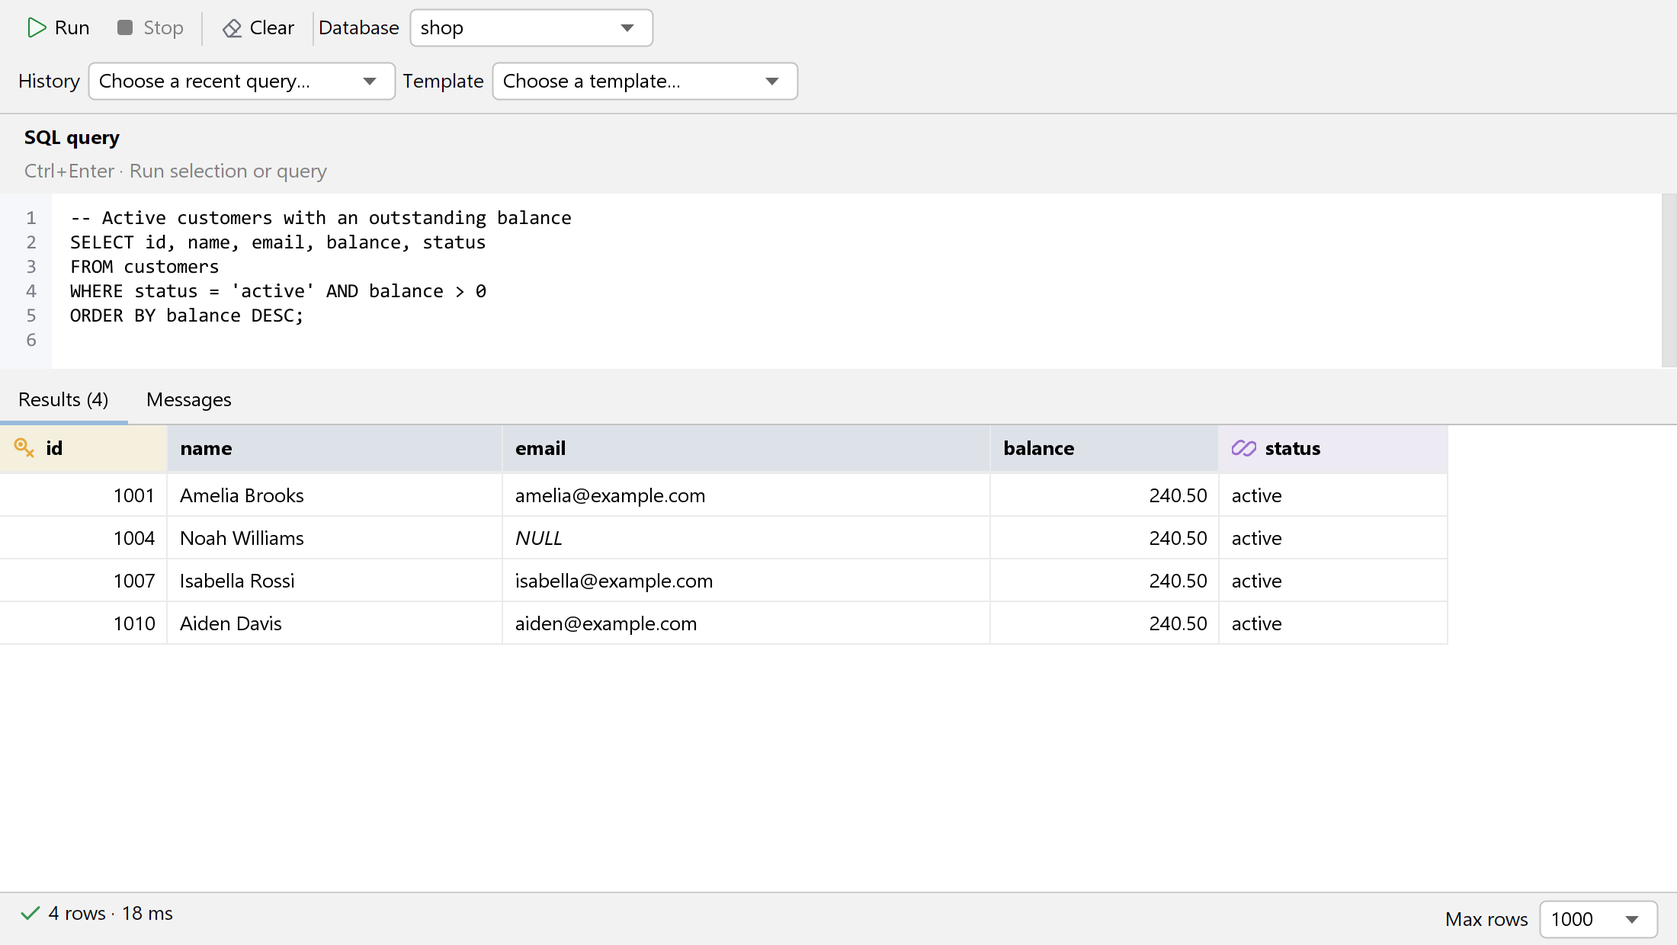
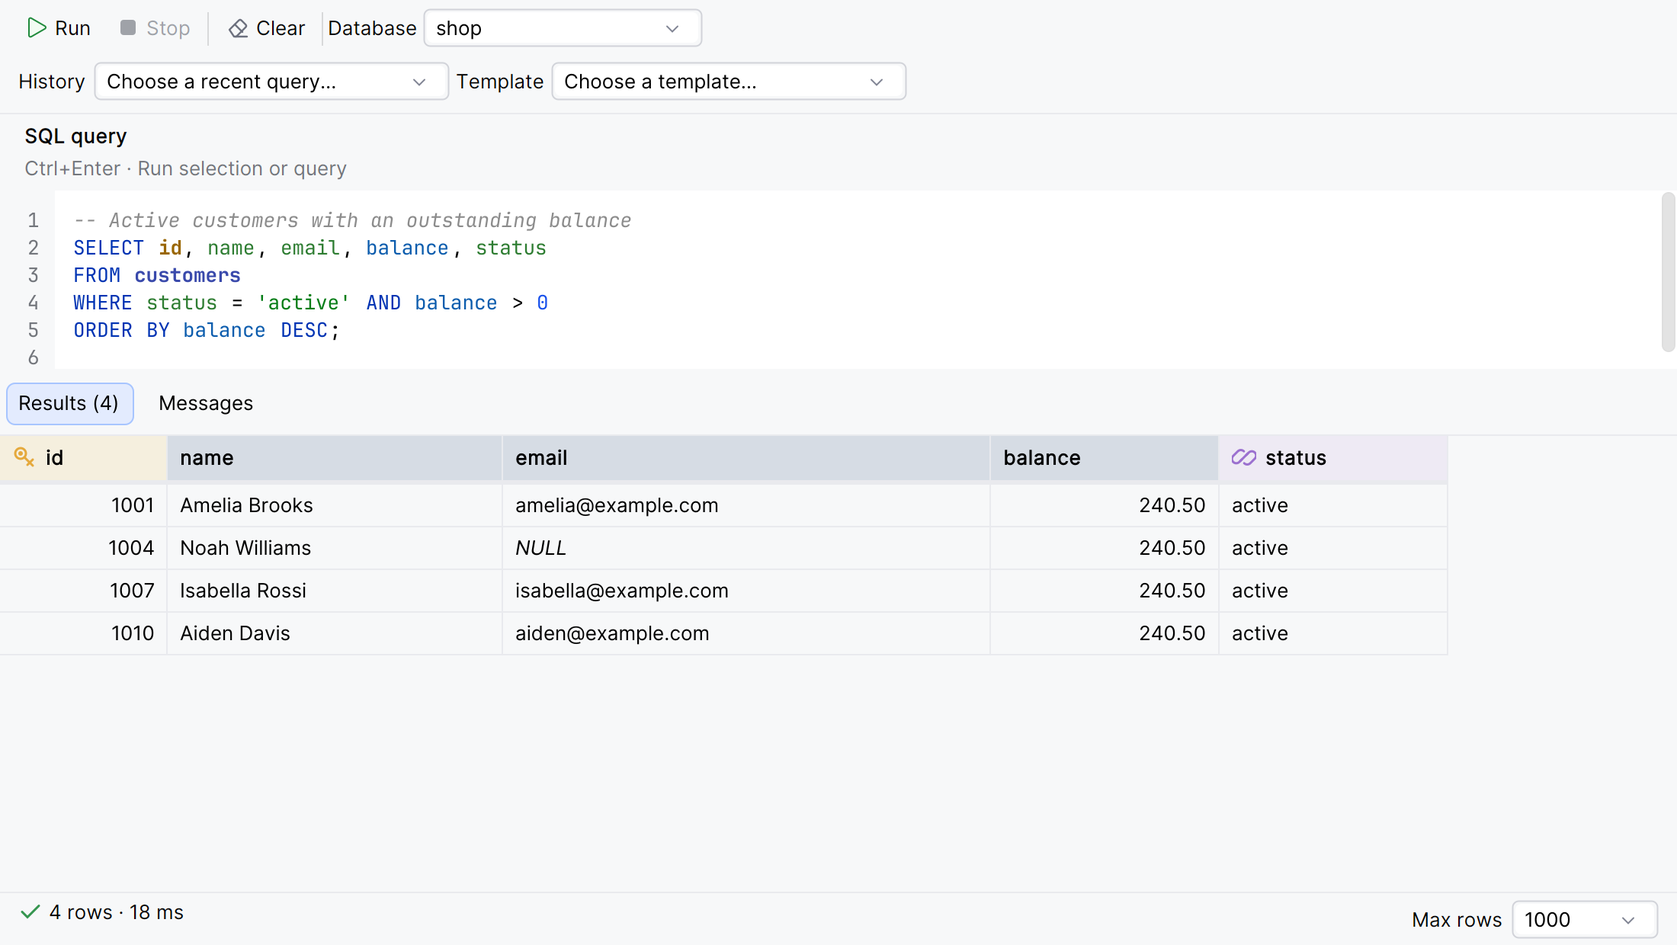
Render tracked screenshots on IntelliJ 2026.2.3 in Islands Light
Let ui-preview.py run on a newer IDE: derive the JDK it needs from the
IDE's runtime, reuse the test framework Gradle cached for that build, and
use the core class loader for the plugin on the class path. UiPreview
installs the real Islands theme, editor scheme and UI font where the IDE
has them, and FlatLaf still approximates themes elsewhere.

Show schema colors in the console screenshot and keep bold labels whole
at higher pixel densities. Refresh the seven README screenshots, and
document the baseline for tracked images.

Fix UiPreview's use of the removed SqlParameterPanel. A stale class in a
reused output directory hid it, so class directories now start empty.

diff --git a/scripts/ui-preview/UiPreview.java b/scripts/ui-preview/UiPreview.java
@@ -111,11 +111,26 @@ public final class UiPreview {
         Graphics2D graphics = image.createGraphics();
         graphics.scale(scale, scale);
         graphics.setRenderingHint(RenderingHints.KEY_TEXT_ANTIALIASING, RenderingHints.VALUE_TEXT_ANTIALIAS_ON);
+        // Layout measures text at 100%; without this, scaled glyphs outgrow their labels and lose their last letter.
+        graphics.setRenderingHint(RenderingHints.KEY_FRACTIONALMETRICS, RenderingHints.VALUE_FRACTIONALMETRICS_ON);
+        widenLabels(component, new java.awt.font.FontRenderContext(java.awt.geom.AffineTransform.getScaleInstance(scale, scale), true, true));
         component.printAll(graphics);
         graphics.dispose();
         ImageIO.write(image, "png", output.resolve(name + ".png").toFile());
         snapshots.add(name + ".png");
         System.out.println(name + ": " + image.getWidth() + " x " + image.getHeight());
+    }
+    /** Hinted text measured at 100% can be narrower than the same text painted at a higher density, above all in bold. */
+    private static void widenLabels(Component component, java.awt.font.FontRenderContext context) {
+        if (component instanceof JLabel label && label.getText() != null && !label.getText().isEmpty() && !label.getText().startsWith("<html") && label.getFont() != null) {
+            int text = (int) Math.ceil(label.getFont().getStringBounds(label.getText(), context).getWidth());
+            Icon icon = label.getIcon();
+            Insets insets = label.getInsets();
+            int needed = text + insets.left + insets.right + (icon == null ? 0 : icon.getIconWidth() + label.getIconTextGap());
+            if (needed > label.getWidth() && needed - label.getWidth() <= 12) label.setSize(needed, label.getHeight());
+        }
+        if (component instanceof Container container)
+            for (Component child : container.getComponents()) widenLabels(child, context);
     }
     private static void desktopTextHints(Component component) {
         if (component instanceof JComponent swing) {
@@ -462,11 +477,11 @@ public final class UiPreview {
     }
     static void renderSqlParameters(String theme) throws Exception {
         String sql = "select * from orders where customer_id = :customer and placed_at >= :since";
-        var panel = new com.segfault03.ideadb.sql.run.SqlParameterPanel(sql,
+        var panel = new com.segfault03.ideadb.sql.run.SqlParameterForm(sql,
                 com.segfault03.ideadb.sql.run.SqlParameters.of(sql, com.segfault03.ideadb.sql.dialect.SqlDialects.MYSQL, false),
-                DatabaseType.MYSQL, Map.of(
+                DatabaseType.MYSQL, null, Map.of(
                         ":customer", new com.segfault03.ideadb.sql.run.SqlParameterValue(com.segfault03.ideadb.sql.run.SqlParameterValue.Type.NUMBER, "42"),
-                        ":since", new com.segfault03.ideadb.sql.run.SqlParameterValue(com.segfault03.ideadb.sql.run.SqlParameterValue.Type.DATE, "2026-01-01")));
+                        ":since", new com.segfault03.ideadb.sql.run.SqlParameterValue(com.segfault03.ideadb.sql.run.SqlParameterValue.Type.TEXT, "'2026-01-01'")), "Run");
         panel.setBorder(javax.swing.BorderFactory.createEmptyBorder(12, 12, 12, 12));
         render(panel, theme + "-sql-parameters-640", 640, 300);
     }
@@ -1150,13 +1165,45 @@ public final class UiPreview {
         render(menuPreview, name, width, height);
     }
 
+    /**
+     * In a project the console's input is an IDE editor with schema colors. Without one it falls back to a plain text area,
+     * so the featured image shows the text in a pane colored by the same production code, over the fixture's schema.
+     */
+    static SqlQueryConsolePanel withSchemaColors(SqlQueryConsolePanel panel) throws Exception {
+        JTextArea area = (JTextArea) field(panel, "editorArea");
+        JTextPane pane = new JTextPane();
+        pane.setFont(area.getFont());
+        pane.setBackground(area.getBackground());
+        pane.setBorder(BorderFactory.createEmptyBorder());
+        pane.setText(area.getText());
+        List<ColumnMetadata> columns = List.of(
+                new ColumnMetadata("id", "BIGINT", java.sql.Types.BIGINT, 19, 0, false, true, true, null),
+                new ColumnMetadata("name", "VARCHAR", java.sql.Types.VARCHAR, 120, 0, false, false, false, null),
+                new ColumnMetadata("email", "VARCHAR", java.sql.Types.VARCHAR, 180, 0, true, false, false, null),
+                new ColumnMetadata("balance", "DECIMAL", java.sql.Types.DECIMAL, 10, 2, false, false, false, null),
+                new ColumnMetadata("status", "VARCHAR", java.sql.Types.VARCHAR, 20, 0, false, false, false, null));
+        var table = new TableMetadata(null, "shop", "customers", "TABLE");
+        table.setColumns(columns);
+        var snapshot = new com.segfault03.ideadb.service.ExplorerMetadataSnapshot(List.of(new com.segfault03.ideadb.service.ExplorerMetadataSnapshot.Namespace("shop",
+                List.of(new com.segfault03.ideadb.service.ExplorerMetadataSnapshot.Table(table, columns, true)), true)), List.of(), 3);
+        var schema = com.segfault03.ideadb.sql.schema.SqlSchema.of(config(DatabaseType.MYSQL), snapshot, "shop", 1);
+        var apply = com.segfault03.ideadb.sql.view.SqlSwingHighlighter.class.getDeclaredMethod("apply", JTextPane.class,
+                com.segfault03.ideadb.sql.dialect.SqlDialectProfile.class, com.segfault03.ideadb.sql.schema.SqlSchema.class);
+        apply.setAccessible(true);
+        apply.invoke(null, pane, com.segfault03.ideadb.sql.dialect.SqlDialects.MYSQL, schema);
+        // Over the text area rather than in its place: the line numbers read that area.
+        area.setLayout(new BorderLayout());
+        area.add(pane, BorderLayout.CENTER);
+        return panel;
+    }
+
     static void renderFeatured(String theme) throws Exception {
         render(welcome(false), theme + "-welcome-900", 900, 680);
         render(valueWorkspacePreview(), theme + "-cell-details-1440", 1440, 900);
         AlterTableDialog alter = alterTableDialog();
         render(alter.previewPanel(), theme + "-schema-alter-table-800", 800, alter.previewPanel().getPreferredSize().height);
         connection(theme, "mysql", 740);
-        render(console(), theme + "-sql-console-1100", 1100, 620);
+        render(withSchemaColors(console()), theme + "-sql-console-1100", 1100, 620);
         TableDataEditorPanel editor = table(false);
         render(editor, theme + "-table-1100", 1100, 620);
         Object model = field(editor, "tableModel");
@@ -1245,6 +1292,35 @@ public final class UiPreview {
         if (filled < 10) throw new AssertionError("Missing solid bottom-left source badge: " + type);
     }
 
+    /**
+     * The IDE's own Islands theme, UI font and editor scheme where it has them, installed the way the IDE does it: the test
+     * application's LafManager has no themes. An older IDE answers false, and FlatLaf approximates its themes instead.
+     */
+    private static boolean installIslandsTheme(boolean dark) throws Exception {
+        String id = dark ? "Islands Dark" : "Islands Light";
+        var theme = com.intellij.ide.ui.laf.UiThemeProviderListManager.Companion.getInstance().findThemeById(id);
+        if (theme == null) return false;
+        UIManager.setLookAndFeel(dark ? new com.intellij.ide.ui.laf.darcula.DarculaLaf() : new com.intellij.ide.ui.laf.IntelliJLaf());
+        UIDefaults defaults = UIManager.getLookAndFeelDefaults();
+        theme.installTheme(defaults);
+        Font inter = new Font("Inter", Font.PLAIN, 13);
+        for (Object key : new ArrayList<>(defaults.keySet())) {
+            if (key instanceof String name && name.endsWith(".font") && defaults.get(key) instanceof Font font) {
+                defaults.put(key, new javax.swing.plaf.FontUIResource(inter.deriveFont(font.getStyle())));
+            }
+        }
+        var colors = com.intellij.openapi.editor.colors.EditorColorsManager.getInstance();
+        var scheme = new com.intellij.openapi.editor.colors.impl.EditorColorsSchemeImpl(colors.getGlobalScheme());
+        String schemeFile = dark ? "themes/islands/IslandSchemeDark.xml" : "themes/expUI/expUI_lightScheme.xml";
+        try (var input = com.intellij.ide.ui.laf.UiThemeProviderListManager.class.getClassLoader().getResourceAsStream(schemeFile)) {
+            if (input == null) throw new AssertionError(id + " has no editor scheme at " + schemeFile);
+            scheme.readExternal(com.intellij.openapi.util.JDOMUtil.load(input));
+        }
+        colors.setGlobalScheme(scheme);
+        System.out.println("Rendering in " + theme.getName() + " on " + com.intellij.openapi.application.ApplicationInfo.getInstance().getBuild().asString());
+        return true;
+    }
+
     private static void initializePreviewApplication() throws Exception {
         com.intellij.testFramework.common.TestApplicationKt.loadApp();
         com.intellij.openapi.extensions.PluginDescriptor descriptor = (com.intellij.openapi.extensions.PluginDescriptor)
@@ -1291,13 +1367,15 @@ public final class UiPreview {
             boolean tabIconsOnly = args.length >= 3 && args[2].equals("tab-icons");
             boolean cellDetailsOnly = args.length >= 3 && args[2].equals("cell-details");
             featuredOnly = !sourceFilterOnly && !searchOnly && !tabIconsOnly && !cellDetailsOnly && (args.length < 3 || !args[2].equals("all"));
-            UIManager.setLookAndFeel(theme.equals("dark") ? new FlatDarculaLaf() : new FlatIntelliJLaf());
-            Font font = new javax.swing.plaf.FontUIResource(previewFont());
-            UIManager.put("defaultFont", font);
-            for (String key : List.of("Label.font", "Button.font", "ToggleButton.font", "CheckBox.font",
-                    "RadioButton.font", "ComboBox.font", "TextField.font", "PasswordField.font", "TextArea.font",
-                    "Table.font", "TableHeader.font", "Menu.font", "MenuItem.font", "TabbedPane.font",
-                    "TitledBorder.font")) UIManager.put(key, font);
+            if (!installIslandsTheme(theme.equals("dark"))) {
+                UIManager.setLookAndFeel(theme.equals("dark") ? new FlatDarculaLaf() : new FlatIntelliJLaf());
+                Font font = new javax.swing.plaf.FontUIResource(previewFont());
+                UIManager.put("defaultFont", font);
+                for (String key : List.of("Label.font", "Button.font", "ToggleButton.font", "CheckBox.font",
+                        "RadioButton.font", "ComboBox.font", "TextField.font", "PasswordField.font", "TextArea.font",
+                        "Table.font", "TableHeader.font", "Menu.font", "MenuItem.font", "TabbedPane.font",
+                        "TitledBorder.font")) UIManager.put(key, font);
+            }
             JBColor.setDark(theme.equals("dark"));
             com.intellij.ui.IconManager.Companion.activate(new com.intellij.ui.icons.CoreIconManager());
             IconLoader.activate();

diff --git a/scripts/ui-preview.py b/scripts/ui-preview.py
@@ -9,7 +9,9 @@ Refreshes the seven featured screenshots/ PNGs and a local gallery under ignored
 import argparse
 import hashlib
 import html
+import json
 import os
+import re
 import shutil
 import zipfile
 from pathlib import Path
@@ -66,6 +68,23 @@ def cached_test_runtime_jars(gradle_cache):
     return result
 
 
+def ide_java_major(sdk):
+    # A newer IDE's classes need a compiler at least as new as its runtime; the plugin itself still targets Java 21.
+    release = sdk / 'jbr/release'
+    version = re.search(r'JAVA_VERSION="(\d+)', release.read_text(encoding='utf-8')) if release.is_file() else None
+    return max(21, int(version.group(1))) if version else 21
+
+
+def cached_platform_test_jars(sdk, gradle_cache):
+    # Newer IDE distributions leave out the platform test framework; Gradle caches the matching build's when it resolves that IDE.
+    if (sdk / 'lib/testFramework.jar').is_file():
+        return []
+    build = json.loads((sdk / 'product-info.json').read_text(encoding='utf-8'))['buildNumber']
+    cache = gradle_cache / 'caches/modules-2/files-2.1/com.jetbrains.intellij.platform'
+    return sorted(jar for module in cache.glob('test-framework*') for jar in (module / build).glob('*/*.jar')
+                  if not jar.name.endswith('-sources.jar'))
+
+
 def run():
     parser = argparse.ArgumentParser(description=__doc__)
     parser.add_argument('--ide-home', type=Path, help='IntelliJ SDK installation directory')
@@ -95,16 +114,17 @@ def run():
 
 
 def render(args, deps, parser):
-    java = executable(deps.java(args.java_home), 'java').resolve()
-    javac = java.with_name('javac.exe' if os.name == 'nt' else 'javac')
-    if not javac.is_file():
-        parser.error('Select a full JDK 21 with --java-home or JAVA_HOME; javac was not found.')
     sdk = deps.ide(args.ide_home) if args.ide_home or args.binaries_dir else None
     gradle_cache = Path(args.gradle_user_home or os.environ.get('GRADLE_USER_HOME', Path.home() / '.gradle')).expanduser().resolve()
     if sdk is None:
         sdk = cached_sdk(gradle_cache)
         if sdk is None:
             sdk = deps.ide()
+    major = ide_java_major(sdk)
+    java = executable(deps.java(args.java_home, major=major), 'java').resolve()
+    javac = java.with_name('javac.exe' if os.name == 'nt' else 'javac')
+    if not javac.is_file():
+        parser.error(f'Select a full JDK {major} with --java-home or JAVA_HOME; javac was not found.')
     test_jars = cached_test_runtime_jars(gradle_cache)
     if test_jars is None:
         test_jars = []
@@ -112,8 +132,12 @@ def render(args, deps, parser):
[2 lines of base64/hex data omitted]
     jars = sorted((sdk / 'lib').glob('*.jar')) + sorted((sdk / 'lib/modules').glob('*.jar'))
-    if not (sdk / 'lib/app-client.jar').is_file():
-        parser.error('--ide-home must point to an IntelliJ SDK with lib/app-client.jar')
+    if not (sdk / 'lib/app-client.jar').is_file() and not (sdk / 'product-info.json').is_file():
+        parser.error('--ide-home must point to an IntelliJ SDK with lib/app-client.jar or product-info.json')
+    platform_test_jars = cached_platform_test_jars(sdk, gradle_cache)
+    if not (sdk / 'lib/testFramework.jar').is_file() and not platform_test_jars:
+        parser.error('This IDE does not bundle the platform test framework; run the What\'s New render once so Gradle caches it. See docs/UI_PREVIEW.md.')
+    test_jars = list(test_jars) + platform_test_jars
     output = args.output.resolve()
     screenshots = ROOT / 'screenshots'
     if output == screenshots or screenshots in output.parents:
@@ -127,8 +151,10 @@ def render(args, deps, parser):
     output.mkdir(parents=True, exist_ok=True)
     production = output / 'production-classes'
     preview = output / 'preview-classes'
-    production.mkdir(exist_ok=True)
-    preview.mkdir(exist_ok=True)
+    # Start empty: classes left by an earlier run would hide a reference to one that no longer exists.
+    for classes in (production, preview):
+        shutil.rmtree(classes, ignore_errors=True)
+        classes.mkdir()
     drivers = {kind: deps.jdbc(kind) for kind in ('mysql', 'hsqldb')}
     # Kotlin settings classes come from Gradle; the Java/Kotlin PSI injectors need language plugins
     # that the headless platform lacks and are not used by any rendered screen.
@@ -173,6 +199,8 @@ def render(args, deps, parser):
                          '--add-opens=java.desktop/sun.java2d=ALL-UNNAMED',
                          '--add-opens=java.desktop/sun.swing=ALL-UNNAMED',
                          '-Djava.awt.headless=true', '-Didea.is.unit.test=true', '-Didea.platform.prefix=Idea',
+                         # A newer IDE only gives a plugin on the class path a loader of its own if it has a jar.
+                         '-Didea.force.use.core.classloader=true',
                          f'-Didea.home.path={sdk}', f'-Didea.config.path={config_path}',
                          f'-Didea.system.path={system_path}', '-cp', runtime, 'UiPreview',
                          str(output), theme, mode], output / f'{theme}.args')

diff --git a/docs/UI_PREVIEW.md b/docs/UI_PREVIEW.md
@@ -4,8 +4,8 @@
 
 Open **Tools → What's New in Lattice**, search for that action with
 **Ctrl+Shift+A**, or use the link on Lattice's welcome screen. The native editor
-tab contains three short feature guides, bundled screenshots that can be enlarged,
-and an expandable list of changes from the packaged changelog. It works offline.
+tab contains short feature guides, bundled images that can be enlarged, and an
+expandable list of changes from the packaged changelog. It works offline.
 
 After opening a project, an informational **Lattice updates** notification offers
 **View what's new**. Each version is announced once per IDE installation across
@@ -18,6 +18,33 @@ For a local installation, build the plugin ZIP, use **Settings → Plugins → g
 Install Plugin from Disk**, select the ZIP, restart if requested, and invoke the
 action above. The native page follows the current IDE theme; screenshots retain
 the theme of their captured sample UI. This feature does not require JCEF.
+
+### Baseline for tracked images
+
+Render every tracked image, the seven README screenshots and the What's New guide
+images, headlessly on IntelliJ IDEA 2026.2.3 in the Islands Light theme, with the
+default Periwinkle schema colors. Neither render opens a window or uses the desktop.
+The IDE version here is separate from the plugin's compile baseline, IntelliJ 2025.1.
+
+### What's New guide images
+
+The guide images under `src/main/resources/release-notes/images/` are rendered
+by `WhatsNewRendersJavaFixtureTest`. It paints the real editor, schema, highlighting,
+cards and panels. Popups cannot open without a display, so they are composed around
+the editor from what the features return. The scenes simulate the Database plugin
+being disabled, because cards and dry runs need that.
+
+Supply an extracted IDEA 2026.2.3 directory, and use JDK 21 to run Gradle. In PowerShell:
+
+```powershell
+$env:LATTICE_WHATS_NEW_OUTPUT = "$PWD\src\main\resources\release-notes\images"
+.\gradlew.bat javaPlatformTest --tests "*WhatsNewRendersJavaFixtureTest" --rerun -I scripts/gradle/whats-new-renders.init.gradle "-Plattice.ide.home=C:/path/to/idea-2026.2.3"
+Remove-Item Env:LATTICE_WHATS_NEW_OUTPUT
+```
+
+On Linux or macOS, set the same variable and use `./gradlew`. Review the images
+before committing them. Without the variable, ordinary `javaPlatformTest` runs
+render the scenes on the compile baseline to keep them working, and write nothing.
 
 ## Welcome screen
 
@@ -132,6 +159,16 @@ Run the preview helper from the repository root on Windows, Linux or macOS:
 ```sh
 python scripts/ui-preview.py
 ```
+
+That renders on the IntelliJ 2025.1 compile baseline, where FlatLaf approximates the IDE themes. It is enough for checking a layout. To refresh the images you commit, use the [baseline](#baseline-for-tracked-images):
+
+```sh
+python scripts/ui-preview.py --ide-home /path/to/idea-2026.2.3 --java-home /path/to/jdk-25
+```
+
+On an IDE that has the Islands themes the helper installs the real theme, its editor scheme and the Inter UI font. The JDK must be at least as new as the IDE's own runtime, which is Java 25 for 2026.2.3; the plugin code still targets Java 21. Run the [What's New render](#whats-new-guide-images) first, because the helper reuses the platform test framework that Gradle caches for that IDE. If the helper's Gradle step runs out of memory in the Kotlin daemon, run `./gradlew compileKotlin -Pkotlin.daemon.jvmargs=-Xmx4g` once and try again.
+
+Without a project the SQL console falls back to a plain text area, so the featured image shows its text in a pane colored by `SqlSwingHighlighter` over a sample schema.
 
 It paints the plugin's production Swing screens with fixture data and a headless IntelliJ test application for platform services such as the Action System. It does not open an IDE window or recreate the screens in separate UI code. The default run uses a light look and feel and refreshes these seven tracked README images:
 

diff --git a/docs/SCRIPTS.md b/docs/SCRIPTS.md
@@ -114,7 +114,7 @@ For quick component layout feedback and the seven README images, run:
 python scripts/ui-preview.py
 ```
 
-This renders production Swing components with fixture data and a headless IntelliJ test application that supplies platform services such as the native Action System. It opens no IDE window. It discovers local JDK 21, IntelliJ 2025.1 and JUnit/Hamcrest jars, downloading missing inputs plus checksum-verified FlatLaf under `--download-dir`. Supply `--flatlaf-jar`, `--junit-jar` and `--hamcrest-jar` to override individual jars. `--all-previews` adds light/dark gallery variants; `--output` selects another gallery directory; `--compare-with` adds a before/after view. The default run refreshes only the seven tracked PNGs under `screenshots/`. See [UI preview instructions](UI_PREVIEW.md).
+This renders production Swing components with fixture data and a headless IntelliJ test application that supplies platform services such as the native Action System. It opens no IDE window. It discovers local JDK 21, IntelliJ 2025.1 and JUnit/Hamcrest jars, downloading missing inputs plus checksum-verified FlatLaf under `--download-dir`. Supply `--flatlaf-jar`, `--junit-jar` and `--hamcrest-jar` to override individual jars. `--all-previews` adds light/dark gallery variants; `--output` selects another gallery directory; `--compare-with` adds a before/after view. The default run refreshes only the seven tracked PNGs under `screenshots/`; commit images rendered on the [UI baseline](UI_PREVIEW.md#baseline-for-tracked-images). See [UI preview instructions](UI_PREVIEW.md).
 
 Main PR CI uses `python scripts/ui-preview.py --checks-only` for production editor recovery assertions without rendering screenshots or updating the gallery.
 

diff --git a/docs/WINDOWS_SCRIPTS.md b/docs/WINDOWS_SCRIPTS.md
@@ -234,7 +234,7 @@ Render the production Swing UI without opening an IDE; refresh the seven tracked
 .\scripts\windows\ui-preview.ps1 --all-previews @deps
 ```
 
-`--all-previews` renders a light/dark gallery. `--output` defaults to build/ui-preview/; `--compare-with` points to an earlier gallery for comparisons. Gallery HTML/ZIP files are ignored. Every successful run refreshes the seven images under screenshots/; review their Git diff. JUnit 4.13.2, Hamcrest Core 1.3 and FlatLaf 3.7.2 can be supplied individually.
+To refresh the images you commit, render on the [UI baseline](UI_PREVIEW.md#baseline-for-tracked-images) with `--ide-home` and `--java-home`. `--all-previews` renders a light/dark gallery. `--output` defaults to build/ui-preview/; `--compare-with` points to an earlier gallery for comparisons. Gallery HTML/ZIP files are ignored. Every successful run refreshes the seven images under screenshots/; review their Git diff. JUnit 4.13.2, Hamcrest Core 1.3 and FlatLaf 3.7.2 can be supplied individually.
 
 Complete options (forwarded unchanged to Python):
 

diff --git a/CLAUDE.md b/CLAUDE.md
@@ -15,6 +15,8 @@ python -m unittest discover -s scripts/tests -v   # tooling regression tests
 python scripts/ui-preview.py        # headless Swing screenshots (light, seven README images)
 ```
 
+Tracked images are rendered headlessly on IntelliJ 2026.2.3 in Islands Light with the default Periwinkle schema colors; see `docs/UI_PREVIEW.md#baseline-for-tracked-images`.
+
 Real-IDE UI screenshots need Xvfb, `xdpyinfo` and a window manager (`openbox` works):
 
 ```sh
